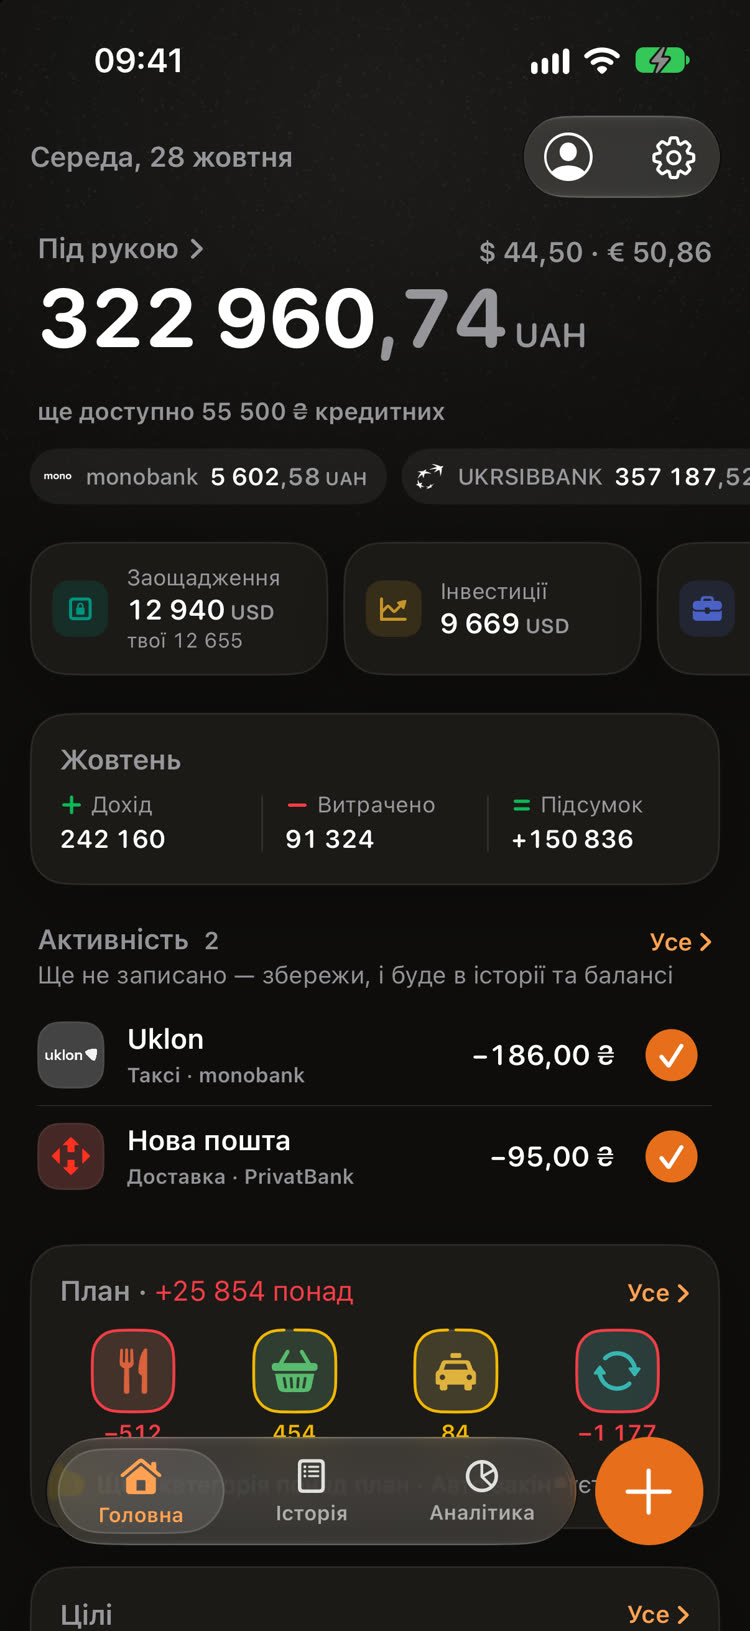
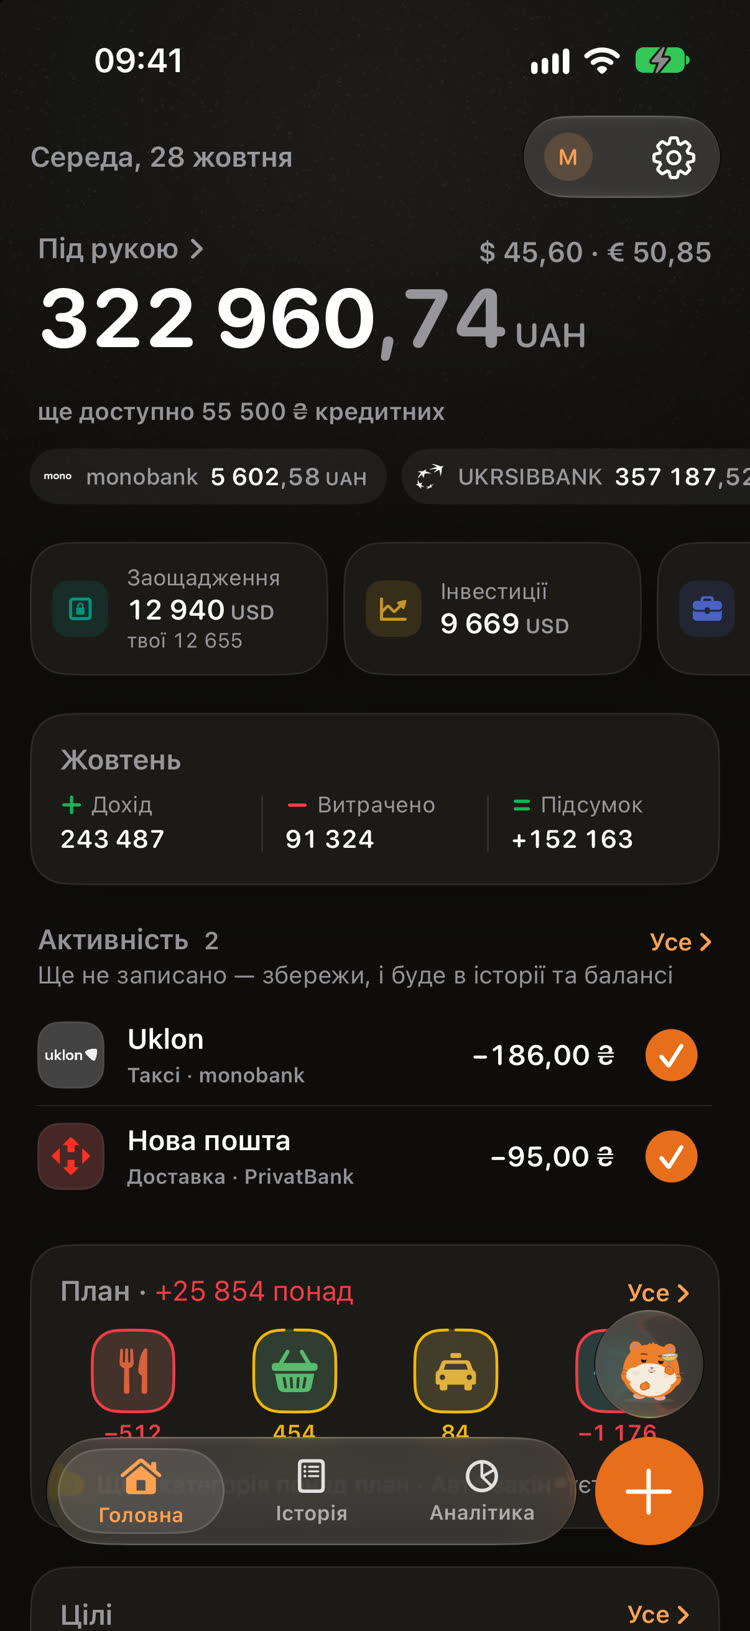
Landing: the phone level with the hero's kicker; Main's screens signed in («М») with Dibsly's button above «+», drawn live on the strip too; scenes re-shot

diff --git a/index.html b/index.html
@@ -67,10 +67,10 @@
                     <div class="phone tilt hero-phone">
                         <div class="screen">
                             <div class="live">
-                            <img class="screen-long" src="v3/shots/uk-main-long.jpg" alt="Головна Dibsly: гроші під рукою, кредитний ліміт, накопичення, місяць, активність, план, цілі, календар, борги й кредити" width="750" height="3658">
+                            <img class="screen-long" src="v3/shots/uk-main-long.jpg" alt="Головна Dibsly: гроші під рукою, кредитний ліміт, накопичення, місяць, активність, план, цілі, календар, борги й кредити" width="750" height="3541">
                             <div class="ios-top" aria-hidden="true">
                                 <div class="ios-status"><b>09:41</b><span class="ios-icons"><svg viewBox="0 0 18 12"><rect x="0" y="8" width="3" height="4" rx="1"></rect><rect x="5" y="5.5" width="3" height="6.5" rx="1"></rect><rect x="10" y="3" width="3" height="9" rx="1"></rect><rect x="15" y="0" width="3" height="12" rx="1"></rect></svg><svg viewBox="0 0 16 12"><path d="M8 11.5l2.4-2.8a3.6 3.6 0 00-4.8 0L8 11.5zM3.7 6.6a6.2 6.2 0 018.6 0l1.6-1.8a8.6 8.6 0 00-11.8 0l1.6 1.8zM.6 3.1a10.9 10.9 0 0114.8 0L16 2.4A12 12 0 000 2.4l.6.7z"></path></svg><span class="ios-battery"><i></i></span></span></div>
-                                <div class="ios-header"><span>Середа, 28 жовтня</span><span class="ios-glass"><svg viewBox="0 0 24 24" fill="none" stroke="currentColor" stroke-width="1.8"><circle cx="12" cy="12" r="10"></circle><circle cx="12" cy="10" r="3.4"></circle><path d="M5.6 18.6c1.6-2.4 3.8-3.6 6.4-3.6s4.8 1.2 6.4 3.6"></path></svg><svg viewBox="0 0 24 24" fill="none" stroke="currentColor" stroke-width="1.8"><circle cx="12" cy="12" r="3.2"></circle><path d="M12 2.5l1.6 2.6 3-.6.6 3 2.6 1.6-1.4 2.9 1.4 2.9-2.6 1.6-.6 3-3-.6L12 21.5l-1.6-2.6-3 .6-.6-3-2.6-1.6 1.4-2.9-1.4-2.9 2.6-1.6.6-3 3 .6z"></path></svg></span></div>
+                                <div class="ios-header"><span>Середа, 28 жовтня</span><span class="ios-glass"><i class="ios-avatar">М</i><svg viewBox="0 0 24 24" fill="none" stroke="currentColor" stroke-width="1.8"><circle cx="12" cy="12" r="3.2"></circle><path d="M12 2.5l1.6 2.6 3-.6.6 3 2.6 1.6-1.4 2.9 1.4 2.9-2.6 1.6-.6 3-3-.6L12 21.5l-1.6-2.6-3 .6-.6-3-2.6-1.6 1.4-2.9-1.4-2.9 2.6-1.6.6-3 3 .6z"></path></svg></span></div>
                             </div>
                             <div class="ios-tabbar" aria-hidden="true">
                                 <div class="ios-pill">
@@ -78,6 +78,7 @@
                                     <span class="ios-tab"><svg viewBox="0 0 24 24" fill="none" stroke="currentColor" stroke-width="1.8"><rect x="5" y="3" width="14" height="18" rx="2.5"></rect><path d="M8.5 8h7M8.5 12h7M8.5 16h4"></path></svg>Історія</span>
                                     <span class="ios-tab"><svg viewBox="0 0 24 24" fill="none" stroke="currentColor" stroke-width="1.8"><circle cx="12" cy="12" r="9"></circle><path d="M12 3v9l6.4 6.4M12 12H3.2"></path></svg>Аналітика</span>
                                 </div>
+                                <img class="ios-dibsly" src="v3/scenes/dibsly-button.png" alt="" width="184" height="184">
                                 <span class="ios-plus"><svg viewBox="0 0 24 24" fill="none" stroke="currentColor" stroke-width="2.4" stroke-linecap="round"><path d="M12 5v14M5 12h14"></path></svg></span>
                             </div>
                             </div>

diff --git a/v3/v3.css b/v3/v3.css
@@ -128,6 +128,10 @@ main { position: relative; z-index: 2; overflow-x: clip; }
 /* The last step is read with the phone still in place. */
 .journey-end { grid-column: 1; grid-row: var(--row); height: 30vh; }
 .stage-sticky { position: sticky; top: 0; height: 100vh; display: flex; align-items: center; justify-content: center; perspective: 1200px; }
+/* Level with «Особисті фінанси» (owner, 2026-10-28: «выровнять так чтоб был на уровне особистих фінансів»): the
+   script measures the kicker and sets --stage-top; the phone is as tall as the window leaves under it. */
+.stage-sticky.aligned { align-items: flex-start; padding-top: var(--stage-top); }
+.stage-sticky.aligned .hero-phone { --ph: clamp(440px, calc(100vh - var(--stage-top) - 28px), 650px); }
 .hero-phone { --ph: clamp(480px, calc(100vh - 180px), 650px); position: relative; width: calc(var(--ph) * 300 / 650); height: var(--ph); flex: none;
     transform-style: preserve-3d; }
 .step { grid-column: 1; grid-row: var(--row); min-height: 100vh; display: flex; align-items: center; padding: 80px 0; }
@@ -155,6 +159,11 @@ main { position: relative; z-index: 2; overflow-x: clip; }
 .ios-header > span:first-child { font-size: calc(16.5 * var(--pt)); color: #C9BDB1; font-family: -apple-system, "SF Pro Text", var(--text); font-weight: 500; }
 .ios-glass { display: flex; gap: calc(26 * var(--pt)); align-items: center; height: 100%; padding: 0 calc(15 * var(--pt)); border-radius: 999px; background: rgba(60, 55, 51, 0.55); border: 1px solid rgba(255, 255, 255, 0.08); -webkit-backdrop-filter: blur(8px); backdrop-filter: blur(8px); }
 .ios-glass svg { width: calc(25 * var(--pt)); height: calc(25 * var(--pt)); color: #F6EBDD; }
+/* Signed in: the first letter on the brand's orange, as the app's profile circle. */
+.ios-avatar { width: calc(28 * var(--pt)); height: calc(28 * var(--pt)); border-radius: 50%; display: flex; align-items: center; justify-content: center; font-style: normal;
+    font-family: ui-rounded, -apple-system, "SF Pro Rounded", var(--text); font-weight: 600; font-size: calc(13 * var(--pt)); color: #FF9A4D; background: rgba(255, 138, 61, 0.18); }
+/* Dibsly's own button above «+», as on Main. */
+.screen .ios-dibsly { position: absolute; left: calc(318.5 * var(--pt)); top: calc(-62 * var(--pt)); width: calc(61 * var(--pt)); height: calc(61 * var(--pt)); border-radius: 50%; object-fit: cover; }
 .ios-tabbar { position: absolute; left: 0; right: 0; bottom: 0; height: calc(110 * var(--pt)); z-index: 2; pointer-events: none; }
 .ios-pill { position: absolute; left: calc(25 * var(--pt)); top: calc(10 * var(--pt)); width: calc(284 * var(--pt)); height: calc(57 * var(--pt)); border-radius: 999px; display: flex; align-items: center; padding: 0 calc(6 * var(--pt));
     background: rgba(48, 44, 41, 0.42); border: 1px solid rgba(255, 255, 255, 0.10); -webkit-backdrop-filter: blur(10px) saturate(1.4); backdrop-filter: blur(10px) saturate(1.4); box-shadow: 0 calc(6 * var(--pt)) calc(20 * var(--pt)) rgba(0, 0, 0, 0.35); }

diff --git a/v3/v3.js b/v3/v3.js
@@ -54,6 +54,21 @@
         });
     });
 
+    // ---------------------------------------------------------------- the phone level with the hero's kicker (wide screens)
+    function alignStage() {
+        var kicker = document.querySelector(".hero .kicker"), sticky = document.querySelector(".stage-sticky");
+        if (!kicker || !sticky) return;
+        var wide = window.innerWidth > 1080;
+        sticky.classList.toggle("aligned", wide);
+        if (!wide) return;
+        var top = 0;
+        for (var node = kicker; node; node = node.offsetParent) top += node.offsetTop;
+        sticky.style.setProperty("--stage-top", top + "px");
+    }
+    alignStage();
+    window.addEventListener("resize", alignStage);
+    if (document.fonts && document.fonts.ready) document.fonts.ready.then(alignStage);
+
     // ---------------------------------------------------------------- the particle field
     var field = null;
     function startField() {
